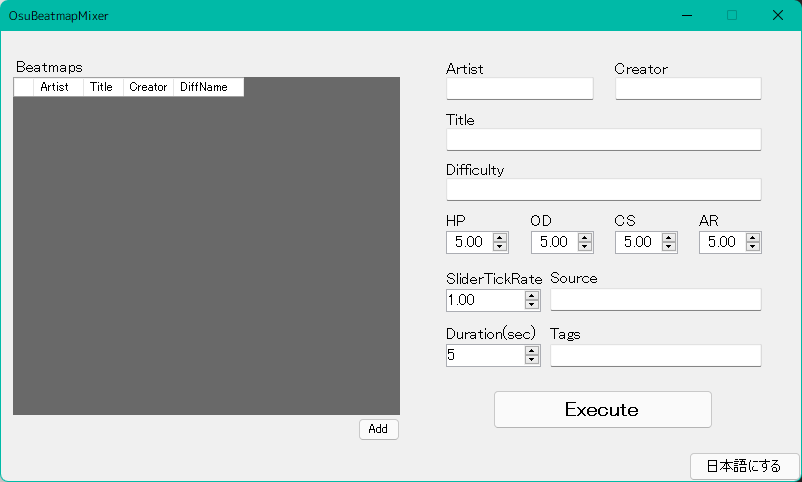
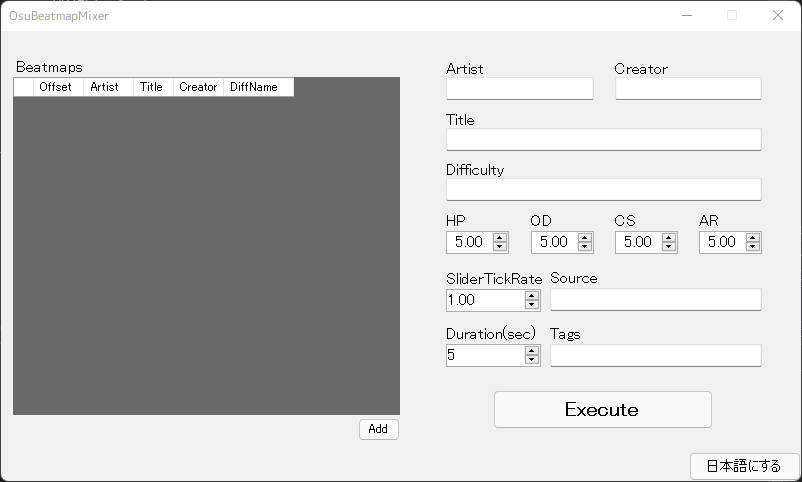
add info and change image

diff --git a/README_ja.md b/README_ja.md
@@ -29,6 +29,10 @@
 
 真ん中の下辺りにある「追加」ボタンをおすことでファイル選択画面がでてくるので譜面ファイルを選択することで譜面を追加できます。再生順を変えたい場合は変えたい譜面を選択して下に表示される上下のボタンを押すと変更できます。
 
+#### バージョン1.2.0から追加
+
+各譜面のオフセット欄をクリックすると譜面ごとにローカルオフセットを指定できます！
+
 ### 2, メタデータ・難易度を入力する
 
 右のメタデータを入力します。Maniaモードの場合CS(Key)欄は無視されます。最低でもアーティスト名とタイトルがあれば実行できます。

diff --git a/README.md b/README.md
@@ -31,6 +31,10 @@ If the Japanese version is displayed, you can change it manually from the button
 
 Clicking the "Add" button at the bottom of the center of the screen will bring up a file selection screen, where you can select an osu file to add a beatmap. If you want to change the playback order, select the beatmap you want to change and press the up/down buttons displayed below.
 
+#### Added since version 1.2.0
+
+You can specify a local offset for each beatmap by clicking on the offset column for each beatmap!
+
 ### 2, Enter the Metadata and Difficulty
 
 Enter the metadata on the right; the CS(Key) field is ignored in Mania mode. At least the artist name and title are required to run.
